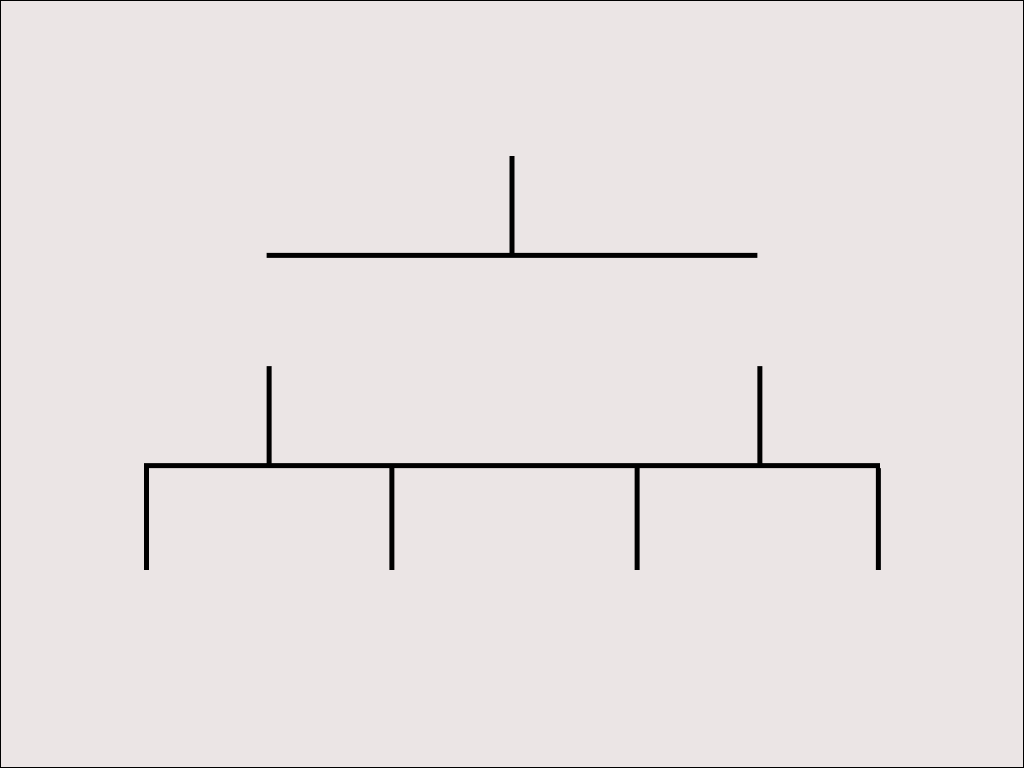
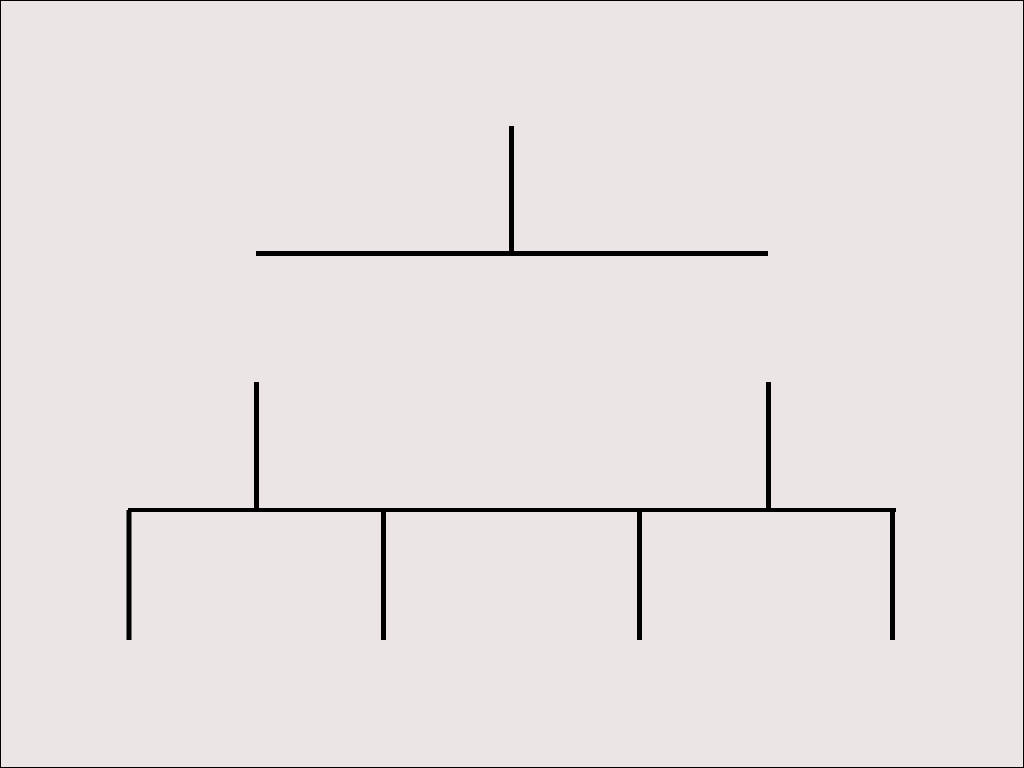
fix : pongGameTournament result screen

Changed region(s): [[0.125, 0.4688, 0.875, 0.8438], [0.25, 0.3125, 0.75, 0.3438]]

diff --git a/srcs/requirements/front/srcs/pongGames/entities/tournamentRes.js b/srcs/requirements/front/srcs/pongGames/entities/tournamentRes.js
@@ -13,24 +13,89 @@ export class TournamentResult {
 	}
 
 	setPlayerInfo(info) {
-		this.playerInfo[0] = info.player0;
-		this.playerInfo[1] = info.player1;
-		this.playerInfo[2] = info.player2;
-		this.playerInfo[3] = info.player3;
+		this.playerInfo[0] = info[0];
+		this.playerInfo[1] = info[1];
+		this.playerInfo[2] = info[2];
+		this.playerInfo[3] = info[3];
  	}
 
 	drawPlayerText(context) {
-		// tournament 본선
-		// tournament 결승
-		// tournament 우승
+		context.fillStyle = "black";
+		context.fillText(this.playerInfo[0], this.screen.WIDTH / 8 - 8 * this.playerInfo[0].length, 680);
+		context.fillText(this.playerInfo[1], this.screen.WIDTH / 8 * 3 - 8 * this.playerInfo[1].length, 680);
+		context.fillText(this.playerInfo[2], this.screen.WIDTH / 8 * 5 - 8 * this.playerInfo[2].length, 680);
+		context.fillText(this.playerInfo[3], this.screen.WIDTH / 8 * 7 - 8 * this.playerInfo[3].length, 680);
+		if (this.match1Winner != "") {
+			if (this.match1Winner == this.playerInfo[0]) {
+				context.fillText(this.playerInfo[0], this.screen.WIDTH / 4 - 8 * this.playerInfo[0].length, 330);
+			} else {
+				context.fillText(this.playerInfo[1], this.screen.WIDTH / 4 - 8 * this.playerInfo[1].length, 330);
+			}
+		}
+		if (this.match2Winner != "") {
+			if (this.match2Winner == this.playerInfo[2]) {
+				context.fillText(this.playerInfo[2], this.screen.WIDTH / 4 * 3 - 8 * this.playerInfo[2].length, 330);
+			} else {
+				context.fillText(this.playerInfo[3], this.screen.WIDTH / 4 * 3 - 8 * this.playerInfo[3].length, 330);
+			}
+		}
+		if (this.match3Winner != "") {
+			if (this.match3Winner == this.match1Winner) {
+				context.fillText(this.match1Winner, this.screen.WIDTH / 2 - 8 * this.match1Winner.length, 100);
+			} else {
+				context.fillText(this.match2Winner, this.screen.WIDTH / 2 - 8 * this.match2Winner.length, 100);
+			}
+		}
 	}
 
 	drawResultLine(context) {
-		// tournament 결승
-		// tournament 우승
+		context.strokeStyle = "red";
+		context.lineWidth = 10;
+		context.beginPath();
+
+		if (this.match1Winner != "") {
+			if (this.match1Winner == this.playerInfo[0]) {
+				context.moveTo(this.screen.WIDTH / 8, 640);
+				context.lineTo(this.screen.WIDTH / 8, 510);
+				context.lineTo(this.screen.WIDTH / 4, 510);
+				context.lineTo(this.screen.WIDTH / 4, 380);
+			} else {
+				context.moveTo(this.screen.WIDTH / 8 * 3, 640);
+				context.lineTo(this.screen.WIDTH / 8 * 3, 510);
+				context.lineTo(this.screen.WIDTH / 4, 510);
+				context.lineTo(this.screen.WIDTH / 4, 380);
+			}
+		}
+		if (this.match2Winner != "") {
+			if (this.match2Winner == this.playerInfo[2]) {
+				context.moveTo(this.screen.WIDTH / 8 * 5, 640);
+				context.lineTo(this.screen.WIDTH / 8 * 5, 510);
+				context.lineTo(this.screen.WIDTH / 4 * 3, 510);
+				context.lineTo(this.screen.WIDTH / 4 * 3, 380);
+			} else {
+				context.moveTo(this.screen.WIDTH / 8 * 7, 640);
+				context.lineTo(this.screen.WIDTH / 8 * 7, 510);
+				context.lineTo(this.screen.WIDTH / 4 * 3, 510);
+				context.lineTo(this.screen.WIDTH / 4 * 3, 380);
+			}
+		}
+		if (this.match3Winner != "") {
+			if (this.match1Winner == this.match3Winner) {
+				context.moveTo(this.screen.WIDTH / 4, 255);
+				context.lineTo(this.screen.WIDTH / 2, 255);
+				context.lineTo(this.screen.WIDTH / 2, 125);
+			} else {
+				context.moveTo(this.screen.WIDTH / 4 * 3, 255);
+				context.lineTo(this.screen.WIDTH / 2, 255);
+				context.lineTo(this.screen.WIDTH / 2, 125);
+			}
+		}
+
+		context.stroke()
 	}
   
 	draw(context) {
+		context.font = "30px serif";
 		context.drawImage(this.screen.RESULT, 0, 0);
 		this.drawPlayerText(context);
 		this.drawResultLine(context);

diff --git a/srcs/requirements/front/srcs/pongGames/tournament.js b/srcs/requirements/front/srcs/pongGames/tournament.js
@@ -32,7 +32,7 @@ export const StartCanvasTournament = () => {
   let flag = {
     START: false,
     STOP: false,
-	FINAL: false,
+	  FINAL: false,
   };
 
   const access_token = localStorage.getItem('access_token')
@@ -49,15 +49,11 @@ export const StartCanvasTournament = () => {
     context.clearRect(0, 0, GameViewport.WIDTH, GameViewport.HEIGHT);
     if (flag.START == false) {
       scene[0].draw(context);
-    } else if (flag.STOP == true)
-    {
+    } else if (flag.STOP == true) {
       scene[1].draw(context);
-	  if (flag.FINAL == true) {
-		ws.close();
-		window.addEventListener("click", function() {
-			window.location.href("/login");
-		}, { once : true });
-	  }
+	    if (flag.FINAL == true) {
+		    ws.close();
+	    }
     }
   }
 
@@ -77,6 +73,7 @@ export const StartCanvasTournament = () => {
         entities[3].name = textData.data.player0;
         entities[4].name = textData.data.player1;
         if (textData.data.status == "match1") {
+          scene[1].setPlayerInfo([textData.data.player0, textData.data.player1, textData.data.player2, textData.data.player3]);
           ws.send(
             JSON.stringify({
               type: "set.game",
@@ -105,7 +102,7 @@ export const StartCanvasTournament = () => {
         document.removeEventListener("keydown", keyDownHandler, false);
         document.removeEventListener("keyup", keyUpHandler, false);
   		  if (textData.data['status'] == "match1") {
-			  scene[1].match1Winner = textData.data['winner'];
+			    scene[1].match1Winner = textData.data['winner'];
         } else if (textData.data['status'] == "match2") {
           scene[1].match2Winner = textData.data['winner'];
         } else if (textData.data['status'] == "match3") {
@@ -128,6 +125,9 @@ export const StartCanvasTournament = () => {
         }
       }	else if (textData.data.mode == "game.complete") {
         flag.FINAL = true;
+		    window.addEventListener("click", function() {
+			    window.location.href = "/main";
+		    }, { once : true });
         scene[1].match3Winner = textData.data['winner'];
       } else if (textData.data.mode == "abnormal.termination") {
         document.removeEventListener("keydown", keyDownHandler, false);
@@ -141,7 +141,7 @@ export const StartCanvasTournament = () => {
           })
         );
         ws.close();
-        window.location.href = "/login";
+        window.location.href = "/main";
       }
     }
   }

diff --git a/srcs/requirements/django/src/game/consumers/pongTournamentConsumers.py b/srcs/requirements/django/src/game/consumers/pongTournamentConsumers.py
@@ -108,9 +108,8 @@ class PongTournamentConsumers(AsyncWebsocketConsumer):
 
         elif msg_type == "next.game" and msg_data['status'] == "match1" and msg_data['name'] == self.user_name:
             class_room = await self.get_class_room()
-            # class_room.winner = msg_data['name']
+            class_room.winner = msg_data['name']
             class_room.status = "match2"
-            class_room.setForNextMatch()
             db_room = await self.get_db_room()
             await self.channel_layer.group_send(
                 self.game_group_name, {
@@ -124,6 +123,7 @@ class PongTournamentConsumers(AsyncWebsocketConsumer):
                     }
                 }
             )
+            class_room.setForNextMatch()
             await self.channel_layer.group_send(
                 self.game_group_name, {
                     "type" : "game.message",
@@ -140,9 +140,8 @@ class PongTournamentConsumers(AsyncWebsocketConsumer):
 
         elif msg_type == "next.game" and msg_data['status'] == "match2" and msg_data['name'] == self.user_name:
             class_room = await self.get_class_room()
-            # class_room.winner2 = msg_data['name']
+            class_room.winner2 = msg_data['name']
             class_room.status = "match3"
-            class_room.setForNextMatch()
             await self.channel_layer.group_send(
                 self.game_group_name, {
                     "type" : "game.message",
@@ -155,6 +154,7 @@ class PongTournamentConsumers(AsyncWebsocketConsumer):
                     }
                 }
             )
+            class_room.setForNextMatch()
             await self.channel_layer.group_send(
                 self.game_group_name, {
                     "type" : "game.message",
@@ -268,6 +268,8 @@ class PongTournamentConsumers(AsyncWebsocketConsumer):
                                     "status" : "match1",
                                     "player0" : db_room.player0,
                                     "player1" : db_room.player1,
+                                    "player2" : db_room.player2,
+                                    "player3" : db_room.player3,
                                     "group" : self.game_group_name
                                 }
                             }

diff --git a/srcs/requirements/django/src/game/info_pong.py b/srcs/requirements/django/src/game/info_pong.py
@@ -52,7 +52,7 @@ class Score:
 	def __init__(self):
 		self.ONE = 0
 		self.TWO = 0
-		self.WIN = 11
+		self.WIN = 1
 
 	def setScore(self, ONE, TWO):
 		self.ONE = ONE
@@ -143,7 +143,8 @@ class Room:
 
 	def setForNextMatch(self):
 		self.score = Score()
-		self.ball.init()
+		self.window = Window(1024, 768, 1024 / 50, {1024 / 80, 768})
+		self.ball = Ball(1024 / 2, 768 / 2, 3, 3, 1024 / 100)
 		self.player0bar = Bar(self.window.width / 60, self.window.height / 7, self.window.width / 50, self.window.height / 2 - self.window.height / 14)
 		self.player1bar = Bar(self.window.width / 60, self.window.height / 7, self.window.width / 50 * 48 + 3, self.window.height / 2 - self.window.height / 14)
 
